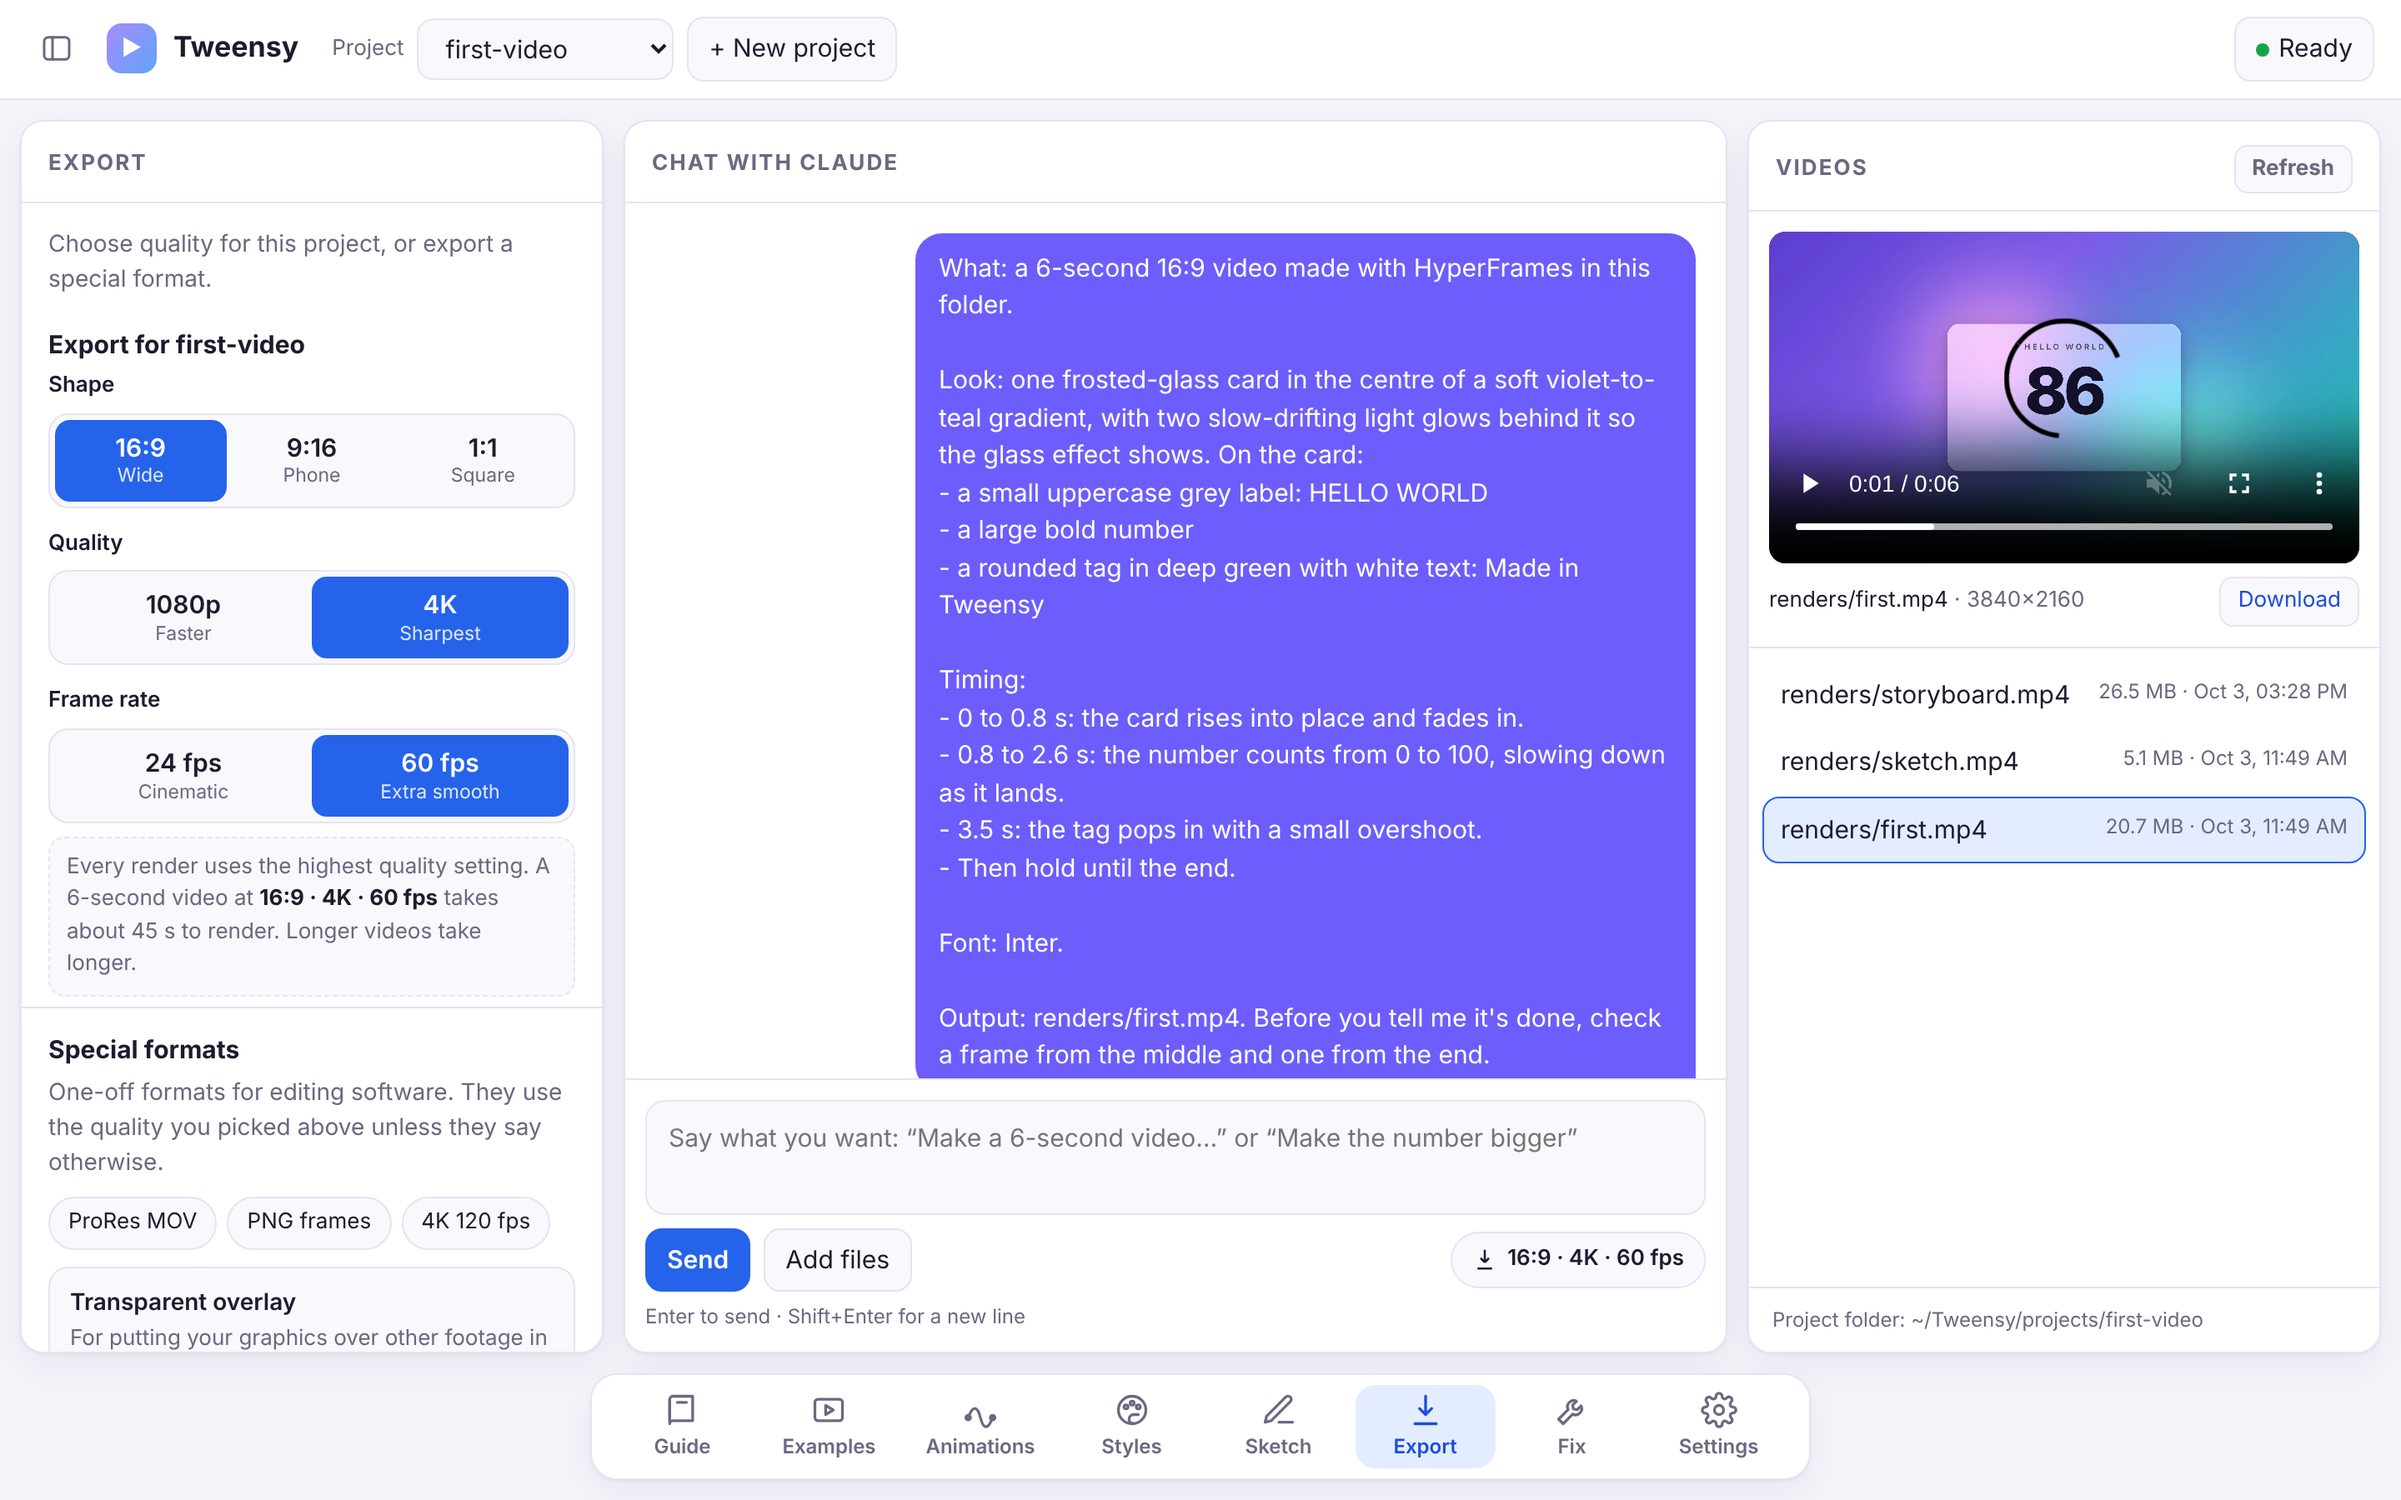
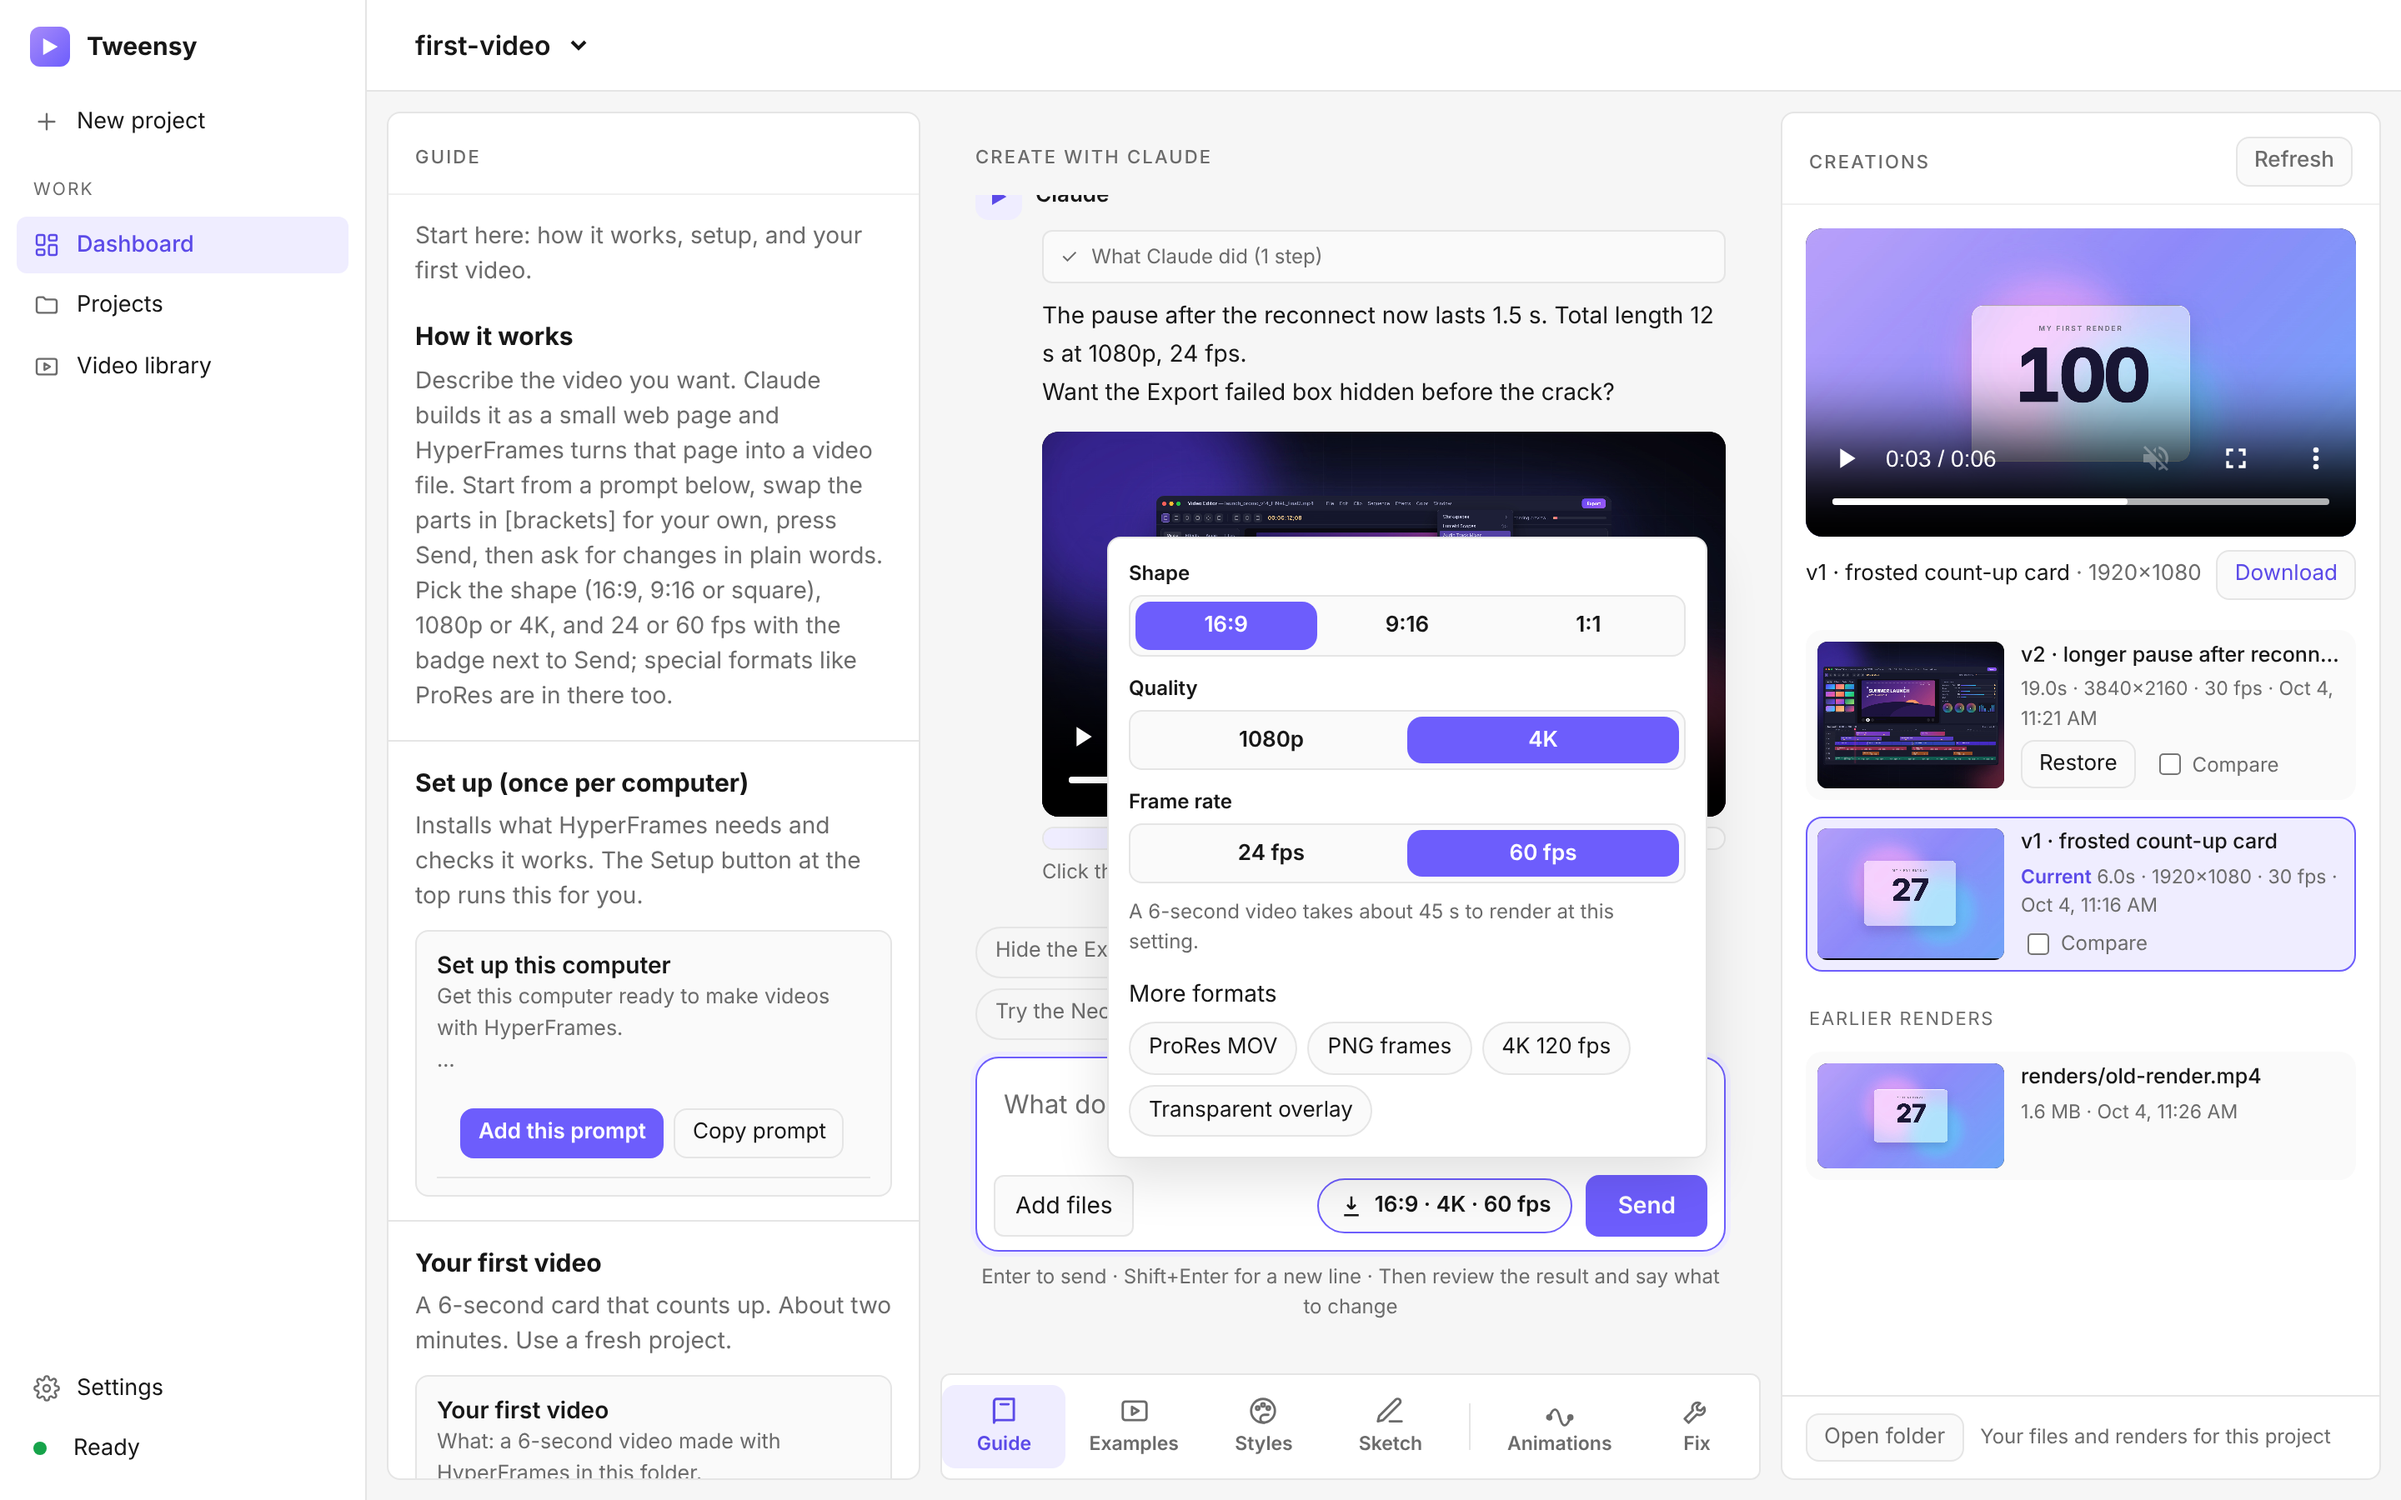
v2.8.0: render versions, review loop, your styles, new layout
README covers versions, the in-chat review, the Video library, your own
styles, shared uploads and the export badge; new screenshots (including the
review and compare views) from a demo project. Changelog 2.8.0.

diff --git a/tweensy/__init__.py b/tweensy/__init__.py
@@ -1,3 +1,3 @@
 """Tweensy: chat with Claude Code to make HyperFrames videos."""
 
-__version__ = "2.7.0"
+__version__ = "2.8.0"

diff --git a/README.md b/README.md
@@ -35,9 +35,9 @@ as it happens, and the finished video plays right next to the chat.
 
 ## Features
 
-- 🧭 **Everything one tap away.** The bottom bar switches between **Guide**, **Examples**,
-  **Animations**, **Styles**, **Sketch**, **Export**, **Fix** and **Settings**, while the chat and your videos stay on screen.
-  Click the open tab again (or the sidebar button) to slide the side panel away for a bigger chat.
+- 🧭 **Everything one tap away.** A sidebar for **New project**, **Dashboard**, **Projects**, **Video
+  library** and **Settings**; on the Dashboard the dock under the chat switches the side panel between
+  **Guide**, **Examples**, **Styles**, **Sketch**, **Animations** and **Fix**, while the chat and your videos stay on screen.
 - ✨ **Examples that work first time.** First video, text-only, product launch, app promo from
   screenshots, and graphics on your own footage. Each is laid out as *What / Look / Timing / Output*,
   with **[brackets]** for the parts you swap.
@@ -46,17 +46,23 @@ as it happens, and the finished video plays right next to the chat.
   scene is unclear.
 - 🎞 **Animations as one-click chips.** Ten classic moves (rise, pop, count-up, typewriter, punch-in…)
   and quick changes (bouncier, calmer, bigger text, brand colours).
-- 🎨 **Four styles to stack under any example.** Bold Type, Frosted Glass, Paper Print and Neon Pop.
+- 🎨 **Styles for any request.** Bold Type, Frosted Glass, Paper Print and Neon Pop (hover one to see how it
+  moves), plus **your own styles**: type the rules or design one with Claude and save it in one click.
 - 🎚 **Export picker.** Choose the **shape (16:9, 9:16 or square)**, **1080p or 4K** and **24 or 60 fps** per
   project, in one click from the badge next to Send. Every render uses the
-  highest quality setting. ProRes 4444, PNG frames, 24 fps and transparent overlays are one click away.
+  highest quality setting. ProRes 4444, PNG frames, 4K 120 fps and transparent overlays are in the same pop-up.
 - 💬 **Talk in plain words.** "Make the number bigger." Each project keeps its own conversation.
 - ⏱ **Know when it's done.** A live card shows Planning → Building → Rendering → Checking with a
   timer, a real **progress bar with time left** while the video renders, and a green "Done in 2:15" when
   it's ready. The browser tab and a desktop notification tell you too, even if you switch away.
 - 👀 **See what Claude is doing.** A live step list, replies that stream in, a **Stop** button, and
   Claude checks frames from every finished render before it says it's done.
-- 🎬 **Videos panel** with a player, the real resolution, and a download button.
+- 🎬 **Every render is a version.** Creations lists them as "v3 · longer pause after reconnect" with length,
+  size and fps. Play any version, **Restore** an older one, or **Compare** two side by side.
+- 🎯 **Review in the chat.** Each reply that rendered plays its video right under it. Click a moment on the
+  comment bar to pin a note ("[07.6s] make this pause longer") that goes with your next message.
+- 📚 **Video library** across all projects, newest first, with the prompt behind each video.
+- 🗂 **No duplicate uploads.** Files you add are kept once and shared by every project that uses them.
 - 🧰 **First-run setup.** A checklist finds what's missing (Claude Code, sign-in, Node, FFmpeg) and
   gives the exact command for your computer, or installs it for you.
 - 🪶 **One download, nothing else to install for the app.** A ready-to-run file for Windows, Mac and
@@ -127,8 +133,8 @@ press **Send**, and wait a few minutes.
 
 ## Export quality
 
-Click the **16:9 · 4K · 60 fps** badge next to Send for a quick pop-up, or open the **Export** menu.
-Each project remembers its own choice.
+Click the **16:9 · 4K · 60 fps** badge next to Send. Each project remembers its own choice. Special
+formats (ProRes MOV, PNG frames, 4K 120 fps, transparent overlay) are under **More formats** in the same pop-up.
 
 | Shape | 1080p | 4K |
 | --- | --- | --- |
@@ -182,12 +188,20 @@ Reopened the page mid-run? It picks the progress back up and updates when the ru
 
 <table>
   <tr>
-    <td width="50%"><img src="docs/screenshots/export.png" alt="Export menu with the resolution and frame-rate picker"></td>
+    <td width="50%"><img src="docs/screenshots/export.png" alt="Export pop-up on the badge next to Send, with shape, quality, frame rate and more formats"></td>
     <td width="50%"><img src="docs/screenshots/styles.png" alt="Styles menu, with a product-launch example and the Neon Pop style stacked in the chat box"></td>
   </tr>
   <tr>
     <td align="center"><b>Export.</b> Shape, 1080p or 4K, 24 or 60 fps, plus special formats.</td>
-    <td align="center"><b>Styles.</b> Stack a style under any example.</td>
+    <td align="center"><b>Styles.</b> Add a style to any request, or make your own.</td>
+  </tr>
+  <tr>
+    <td width="50%"><img src="docs/screenshots/review.png" alt="A render playing under Claude's reply, with a comment pinned to 8.0 seconds waiting to be sent"></td>
+    <td width="50%"><img src="docs/screenshots/compare.png" alt="Two versions playing side by side with their labels, length, size and frame rate"></td>
+  </tr>
+  <tr>
+    <td align="center"><b>Review.</b> Pin notes to exact moments in a render.</td>
+    <td align="center"><b>Versions.</b> Compare any two side by side, restore any one.</td>
   </tr>
   <tr>
     <td width="50%"><img src="docs/screenshots/animations.png" alt="Animations menu with motion moves and quick changes as chips"></td>
@@ -202,10 +216,10 @@ Reopened the page mid-run? It picks the progress back up and updates when the ru
 <p align="center">
   <img src="docs/screenshots/mobile-chat.png" alt="Chat on a phone-sized screen with the bottom navigation bar" width="240">
   &nbsp;
-  <img src="docs/screenshots/mobile-videos.png" alt="Videos on a phone-sized screen" width="240">
+  <img src="docs/screenshots/mobile-videos.png" alt="Creations with render versions on a phone-sized screen" width="240">
   &nbsp;
-  <img src="docs/screenshots/mobile-export.png" alt="Export picker on a phone-sized screen" width="240"><br>
-  <sub>On small screens the bottom bar switches the whole view: Chat · Videos · Guide · Examples · Animations · Styles · Sketch · Export · Fix · Settings.</sub>
+  <img src="docs/screenshots/mobile-export.png" alt="Export pop-up on a phone-sized screen" width="240"><br>
+  <sub>On small screens the bottom bar switches the whole view: Chat · Creations · Guide · Examples · Styles · Sketch · Animations · Fix.</sub>
 </p>
 
 ## How it works
@@ -228,8 +242,10 @@ flowchart LR
   come from generated files in `.runtime/`, so nothing depends on how your OS quotes arguments.
 - Claude runs headless with `--permission-mode acceptEdits` and only the tools in `ALLOWED_TOOLS`
   (see [SECURITY.md](SECURITY.md)).
-- Chat history and export settings are saved in `projects/.chats/`. Project folders stay empty until
-  Claude scaffolds them.
+- Each turn renders to the next free `renders/vNNN.mp4`; Tweensy records its prompt, length, size and fps
+  (via ffprobe) and keeps a copy of the composition's source so **Restore** brings the project back too.
+- Chat history, versions and export settings are saved in `projects/.chats/`. Project folders stay empty
+  until Claude scaffolds them. Your own styles live in `styles.json`, uploads once in `assets/`.
 
 ## Project layout
 
@@ -244,6 +260,8 @@ tweensy/
 │   ├── progress.py               #   reading HyperFrames' render log for the progress bar
 │   ├── projects.py               #   project folders, chat history, video lists
 │   ├── assets.py                 #   one shared copy of each upload, hard-linked into projects
+│   ├── versions.py               #   render versions: numbering, ffprobe details, source snapshots, restore
+│   ├── styles.py                 #   your own styles (styles.json)
 │   ├── system.py                 #   finding Claude/Node/FFmpeg, setup checks, Stop
 │   ├── config.py                 #   paths, port, OS facts
 │   └── guide.py                  #   every example, style, move and fix, as data
@@ -265,7 +283,7 @@ tweensy/
 
 | What | How |
 | --- | --- |
-| Export quality | **Export** menu in the app (saved per project) |
+| Export quality | The badge next to Send (saved per project) |
 | Port | **Settings → Port** in the app, or `tweensy --port 9000` / `python3 app.py --port 9000` (saved in `settings.json`). `TWEENSY_PORT=9000` picks one for a single run. |
 | Don't open a browser | `python3 app.py --no-browser` |
 | What Claude may run | `ALLOWED_TOOLS` in `tweensy/claude.py` |
@@ -277,7 +295,7 @@ tweensy/
 
 ```sh
 python3 app.py --no-browser                 # run from source
-python3 -m unittest discover -s tests -v    # 24 tests, ~2 s, no Claude Code needed
+python3 -m unittest discover -s tests -v    # 32 tests, ~1 s, no Claude Code needed
 pip install pyinstaller && python3 scripts/build_app.py   # build the app for this computer
 ```
 

diff --git a/CHANGELOG.md b/CHANGELOG.md
@@ -5,7 +5,7 @@ versions: [SemVer](https://semver.org/).
 
 ## [Unreleased]
 
-## [Unreleased]
+## [2.8.0] - 2026-10-04
 
 ### Added
 - **Render versions:** every render is saved as its own `renders/vNNN.mp4` with its prompt, time, length,
@@ -34,8 +34,9 @@ versions: [SemVer](https://semver.org/).
 ### Changed
 - Claude's progress narration goes into the folded "What Claude did" list; the visible reply is only
   what changed, the final length and settings, and any open question.
-- The project name is the top bar title; the chat column is wider with ~75-character lines, and its header
-  lines up with it when the side panel is closed.
+- The project name is the top bar title; the chat column is wider with ~75-character lines.
+- The Guide/Examples side panel always stays open, and both side panels run to the bottom of the window
+  with the dock under the chat.
 - **Settings** moved to the sidebar. The dock's **Export** tab is gone: shape, quality, frame rate and the
   special formats all live in the badge next to Send. Download is only in Creations.
 - Styles can go before or after your request (the old "pick an example first" wording is gone); **Copy**
